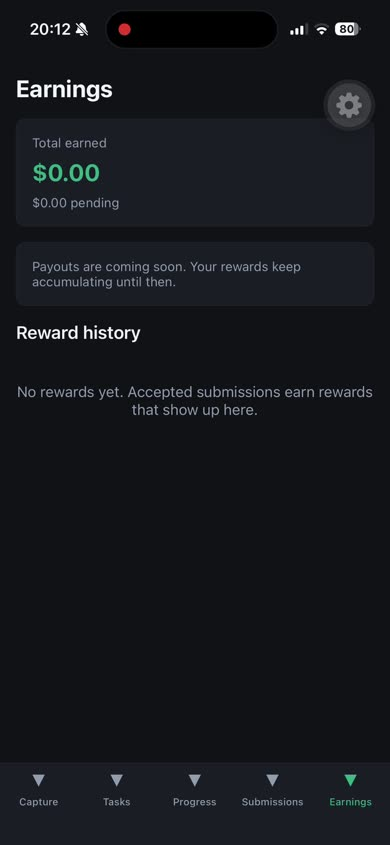
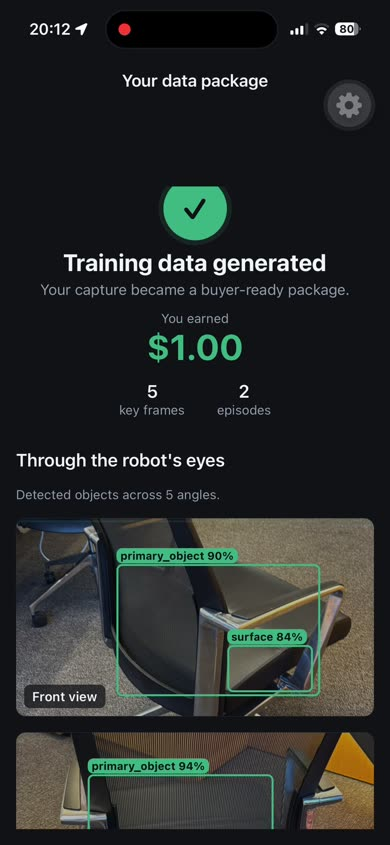
Use the post-capture reward screen in the README instead of an empty Earnings tab.
Show the $1.00 earned moment for the chair capture so the demo reflects real payout feedback, not a zero balance.

diff --git a/README.md b/README.md
@@ -2,9 +2,9 @@
 
 Turn idle moments into useful physical-world training data. Contributors capture everyday objects and environments with their phone; the app labels what they shot, packages it for buyers, and pays them when it passes review.
 
-| Capture | Review | Data package | Earnings |
+| Capture | Review | Data package | You earned |
 | :---: | :---: | :---: | :---: |
-| ![Capture screen](./docs/screenshots/capture.jpg) | ![Review before submit](./docs/screenshots/review.jpg) | ![Buyer-ready package preview](./docs/screenshots/data-package.jpg) | ![Earnings tab](./docs/screenshots/earnings.jpg) |
+| ![Capture screen](./docs/screenshots/capture.jpg) | ![Review before submit](./docs/screenshots/review.jpg) | ![Buyer-ready package preview](./docs/screenshots/data-package.jpg) | ![$1.00 earned for this chair capture](./docs/screenshots/earnings.jpg) |
 
 ## How it works
 